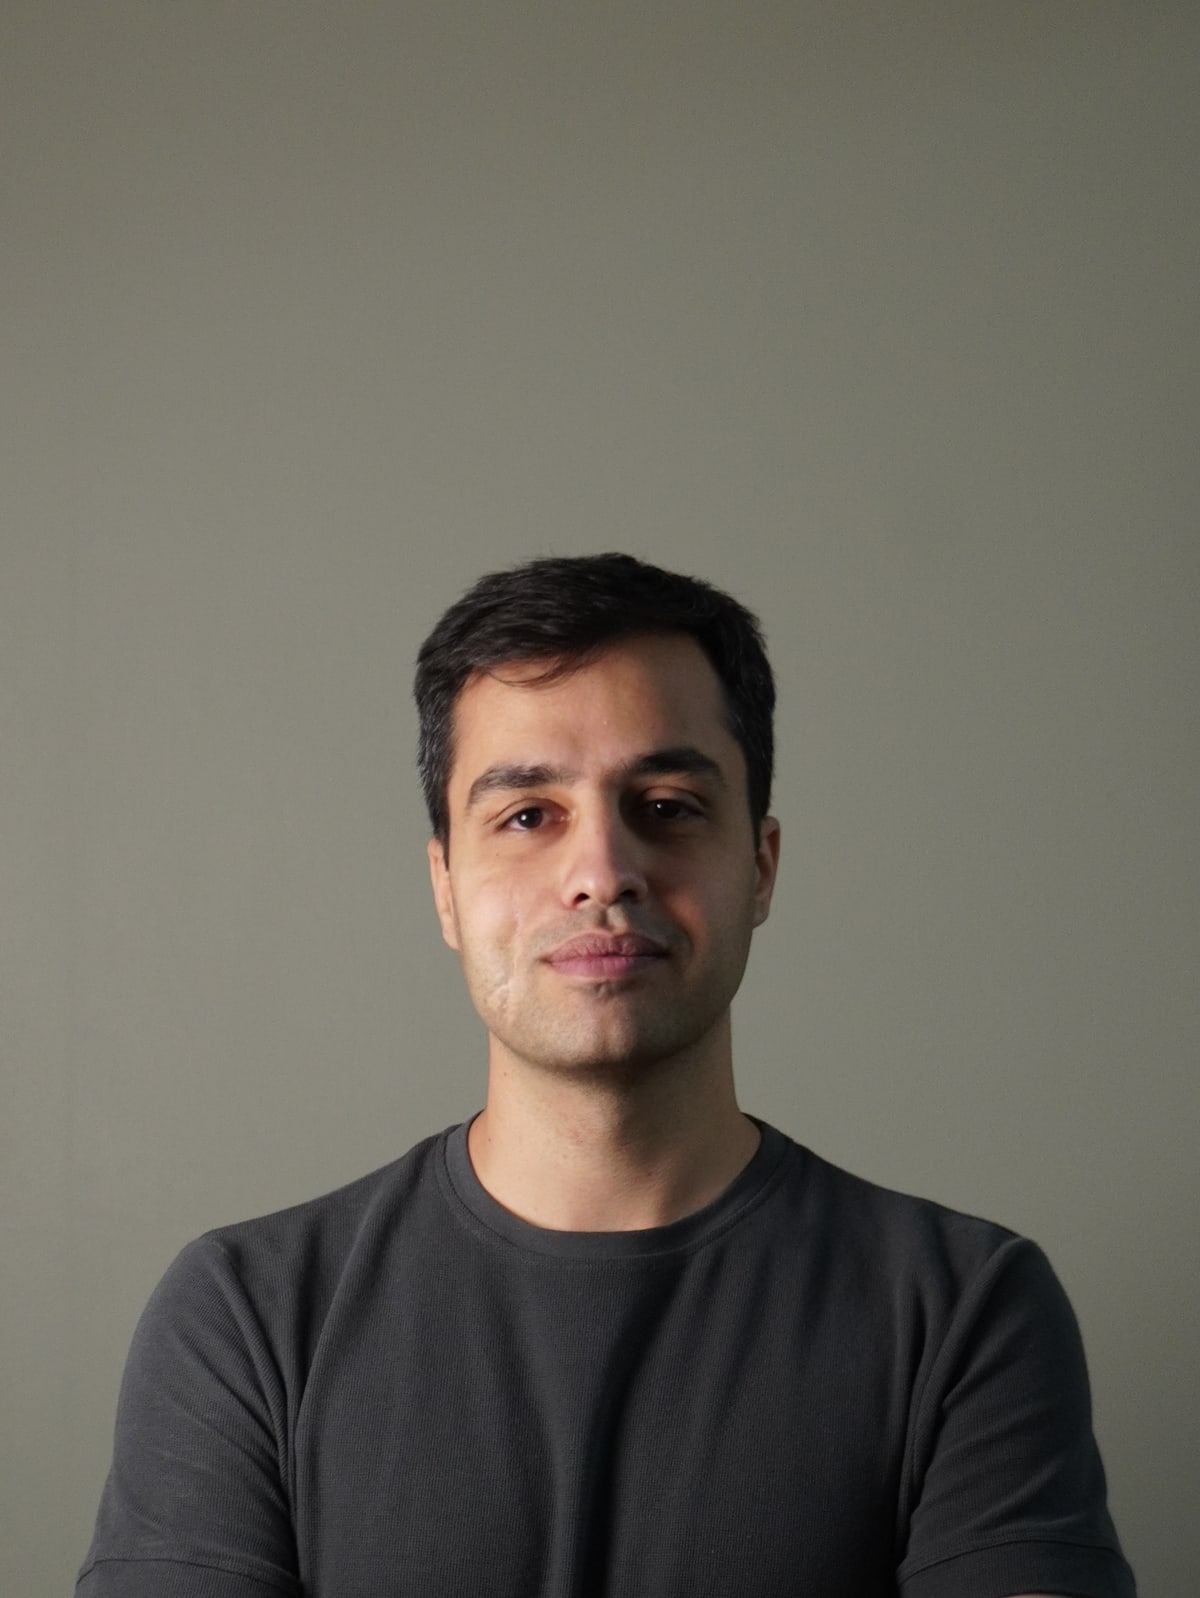
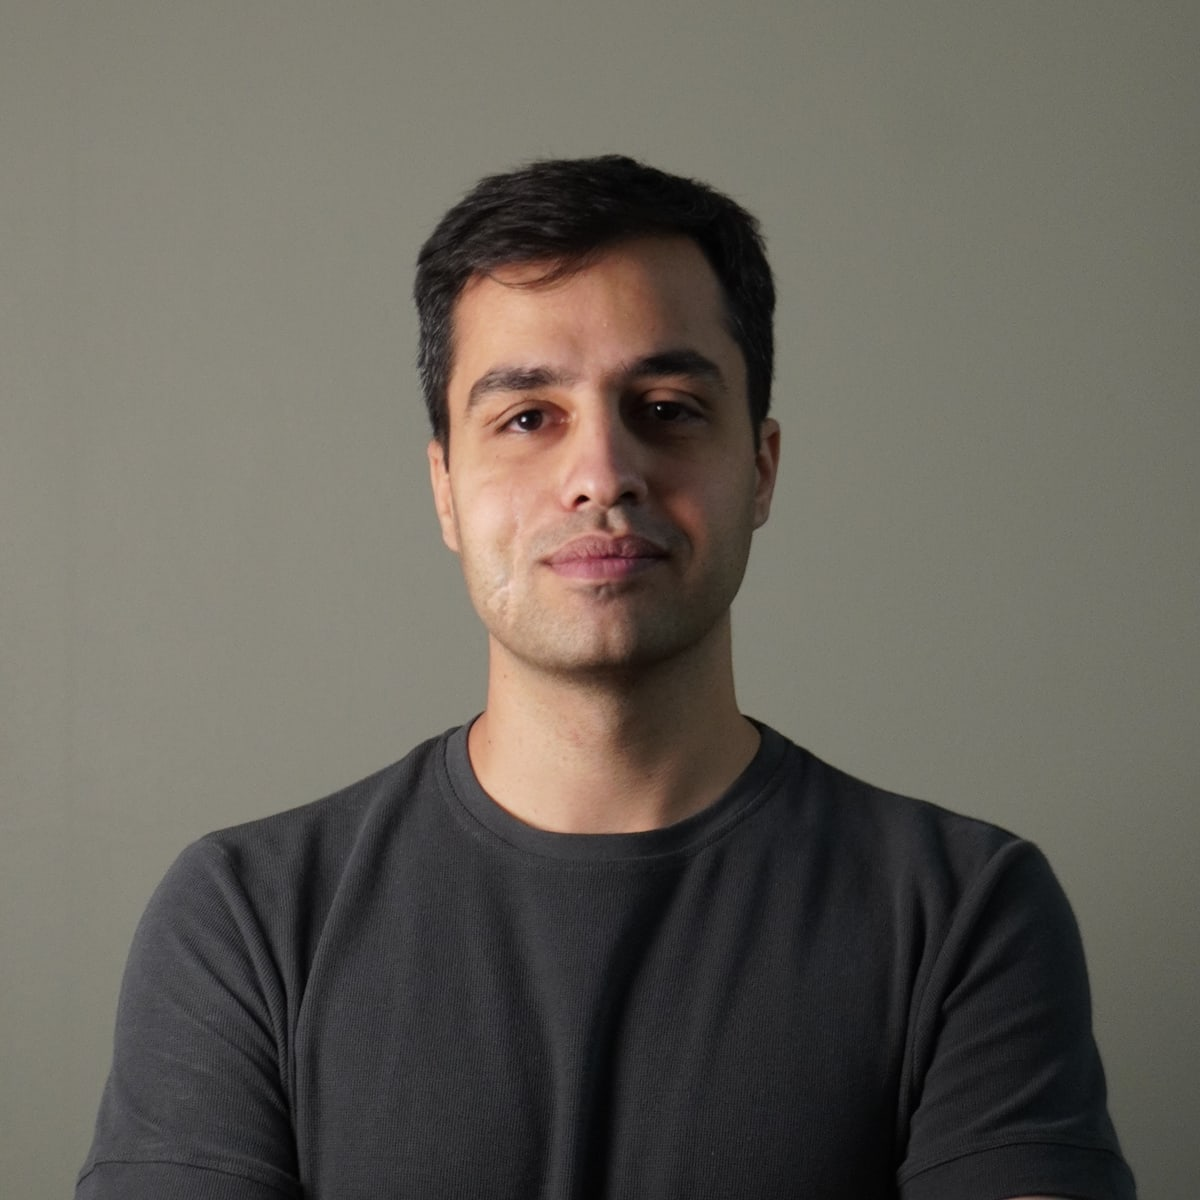
feat: crop the portrait and lead the home page with it
- the photo had roughly a third of its height as empty wall above the head.
  Recropped from the original to a 1200x1200 square with about 155px of
  headroom, which also cut the file from 110KB to 94KB
- the portrait moves from a section near the bottom of the home page into the
  hero, beside a brief introduction, so the first screen now answers who this
  is rather than only what he is called
- the standalone About block at the foot of the home page is gone; the detail
  already lives on /about, and the hero links there

On mobile the image is ordered first visually so the page still opens with the
photo, but it stays after the heading in the DOM — the <h1> is what a crawler
and a screen reader should meet first.

Verified: 14 smoke tests pass, format, lint, typecheck and build all exit 0,
checked at 1280px and at a true 390px viewport.

Changed region(s): [[0.0925, 0.1233, 0.925, 0.9558], [0.0617, 0.8942, 0.0925, 0.9867], [0.925, 0.925, 0.9558, 0.9867]]

diff --git a/src/app/page.tsx b/src/app/page.tsx
@@ -5,7 +5,7 @@ import { ProjectRow } from '@/components/project-row';
 import { projects } from '@/content/projects';
 import { getAllPosts } from '@/lib/blog';
 import { formatDate, formatReadingTime } from '@/utils/format';
-import { aboutPage, home, nav, portrait, site } from '@/content/copy';
+import { aboutPage, home, portrait, site } from '@/content/copy';
 
 const SectionHeading = ({ title, href, cta }: { title: string; href: string; cta: string }) => (
   <div className="border-line flex items-baseline justify-between gap-4 border-b pb-3">
@@ -24,16 +24,36 @@ export default function Home() {
 
   return (
     <Container width="wide">
-      {/* Hero */}
-      <section className="grid gap-8 pb-20 lg:grid-cols-[1.15fr_1fr] lg:items-end lg:gap-16">
+      {/* Hero: who I am, next to what I look like. */}
+      <section className="grid items-center gap-10 pb-20 md:grid-cols-[minmax(0,1fr)_15rem] md:gap-14 lg:grid-cols-[minmax(0,1fr)_18rem] lg:gap-16">
         <div>
           <p className="text-accent pb-4 font-mono text-xs tracking-[0.2em] uppercase">
             {site.role}
           </p>
+
           <h1 className="font-display text-display">{site.name}</h1>
+
+          <p className="text-fg-muted max-w-[52ch] pt-6 text-lg leading-relaxed">{home.tagline}</p>
+
+          <p className="text-fg-muted max-w-[52ch] pt-4 leading-relaxed">{aboutPage.lead}</p>
+
+          <Link
+            href="/about"
+            className="text-accent hover:text-accent-hover mt-6 inline-block font-mono text-xs transition-colors"
+          >
+            {home.moreAbout} →
+          </Link>
         </div>
 
-        <p className="text-fg-muted text-lg leading-relaxed lg:pb-2">{home.tagline}</p>
+        <Image
+          src={portrait.src}
+          alt={portrait.alt}
+          width={portrait.width}
+          height={portrait.height}
+          sizes="(min-width: 1024px) 18rem, (min-width: 768px) 15rem, 100vw"
+          priority
+          className="border-line rounded-card order-first h-auto w-full max-w-[15rem] border object-cover md:order-none md:max-w-none"
+        />
       </section>
 
       {/* Selected work — compact rows; /projects carries the full cards. */}
@@ -48,14 +68,14 @@ export default function Home() {
 
       {/* Recent writing */}
       {posts.length > 0 && (
-        <section className="pb-20">
+        <section>
           <SectionHeading title={home.recentWriting} href="/blog" cta={home.allPosts} />
           <ul className="divide-line divide-y">
             {posts.map((post) => (
               <li key={post.slug}>
                 <Link
                   href={`/blog/${post.slug}`}
-                  className="group focus-visible:outline-accent block py-6 focus-visible:outline-2 focus-visible:outline-offset-2"
+                  className="focus-visible:outline-accent group block py-6 focus-visible:outline-2 focus-visible:outline-offset-2"
                 >
                   <p className="text-fg-subtle pb-2 font-mono text-xs">
                     <time dateTime={post.publishedAt}>{formatDate(post.publishedAt)}</time>
@@ -74,32 +94,6 @@ export default function Home() {
           </ul>
         </section>
       )}
-
-      {/* About — the detail lives on /about */}
-      <section className="grid items-start gap-8 sm:grid-cols-[12rem_minmax(0,1fr)] sm:gap-10">
-        <Image
-          src={portrait.src}
-          alt={portrait.alt}
-          width={portrait.width}
-          height={portrait.height}
-          sizes="(min-width: 640px) 12rem, 100vw"
-          className="border-line rounded-card h-auto w-full border object-cover"
-        />
-
-        <div>
-          <div className="border-line flex items-baseline justify-between gap-4 border-b pb-3">
-            <h2 className="font-display text-title">{nav.about}</h2>
-            <Link
-              href="/about"
-              className="text-fg-subtle hover:text-accent font-mono text-xs whitespace-nowrap transition-colors"
-            >
-              {home.moreAbout} →
-            </Link>
-          </div>
-          <p className="text-fg-muted max-w-[62ch] pt-6 leading-relaxed">{aboutPage.lead}</p>
-          <p className="text-fg-muted max-w-[62ch] pt-4 leading-relaxed">{home.intro}</p>
-        </div>
-      </section>
     </Container>
   );
 }

diff --git a/src/content/copy.ts b/src/content/copy.ts
@@ -69,7 +69,7 @@ export const portrait = {
   src: '/images/milad-mohammadi.jpg',
   alt: 'Milad Mohammadi',
   width: 1200,
-  height: 1598,
+  height: 1200,
 } as const;
 
 export const aboutPage = {
